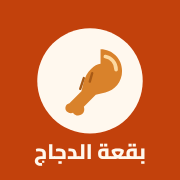
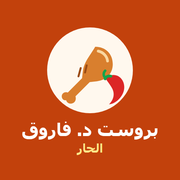
Rename shop to Dr Farooq Spicy Broast
Update the page title, app name, shop settings and icons with the new name.

diff --git a/index.html b/index.html
@@ -3,16 +3,16 @@
 <head>
 <meta charset="UTF-8">
 <meta name="viewport" content="width=device-width, initial-scale=1, viewport-fit=cover">
-<title>بقعة الدجاج | Chicken Spot</title>
+<title>بروست د. فاروق الحار | Dr Farooq Spicy Broast</title>
 <meta name="description" content="بروست طازج وساخن — اطلب عبر واتساب واستلم خلال دقائق">
 <meta name="theme-color" content="#C2410C">
 <link rel="manifest" href="manifest.webmanifest">
 <link rel="icon" type="image/png" href="icon-192.png">
 <link rel="apple-touch-icon" href="apple-touch-icon.png">
 <meta name="apple-mobile-web-app-capable" content="yes">
-<meta name="apple-mobile-web-app-title" content="بقعة الدجاج">
+<meta name="apple-mobile-web-app-title" content="بروست د. فاروق">
 <meta name="apple-mobile-web-app-status-bar-style" content="default">
-<meta property="og:title" content="بقعة الدجاج | Chicken Spot">
+<meta property="og:title" content="بروست د. فاروق الحار | Dr Farooq Spicy Broast">
 <meta property="og:description" content="اطلب بروستك عبر واتساب — ٤ قطع ٢٠ ر.س • ٨ قطع ٣٠ ر.س">
 <link rel="preconnect" href="https://fonts.googleapis.com">
 <link href="https://fonts.googleapis.com/css2?family=Cairo:wght@400;600;800&display=swap" rel="stylesheet">
@@ -176,8 +176,8 @@ footer{text-align:center;font-size:12px;color:#B39A88;padding:22px 0 10px}
 <script>
 /* ================= SHOP SETTINGS — change only this block for each new shop ================= */
 const SHOP = {
-  name_ar: "بقعة الدجاج",
-  name_en: "Chicken Spot",
+  name_ar: "بروست د. فاروق الحار",
+  name_en: "Dr Farooq Spicy Broast",
   whatsapp: "966500000000",                 // shop WhatsApp, international format, no + or spaces
   phone: "+966500000000",
   map: "https://maps.google.com/?q=Riyadh", // paste the shop's Google Maps share link

diff --git a/sw.js b/sw.js
@@ -1,4 +1,4 @@
-const CACHE='chickenspot-v1';
+const CACHE='chickenspot-v2';
 const FILES=['./','index.html','manifest.webmanifest','icon-192.png','icon-512.png'];
 self.addEventListener('install',e=>{e.waitUntil(caches.open(CACHE).then(c=>c.addAll(FILES)));self.skipWaiting()});
 self.addEventListener('activate',e=>{e.waitUntil(caches.keys().then(k=>Promise.all(k.filter(x=>x!==CACHE).map(x=>caches.delete(x)))));self.clients.claim()});

diff --git a/README.md b/README.md
@@ -1,4 +1,4 @@
-# بقعة الدجاج | Chicken Spot
+# بروست د. فاروق الحار | Dr Farooq Spicy Broast
 
 A one-page website for a broast chicken shop, which customers can also install as an app. Customers browse the menu, then send their order to the shop on WhatsApp. No server, database or monthly fees are needed: it runs free on GitHub Pages.
 
@@ -38,8 +38,8 @@ Open `index.html` and find the block marked **SHOP SETTINGS**. It's near the bot
 
 ```js
 const SHOP = {
-  name_ar: "بقعة الدجاج",
-  name_en: "Chicken Spot",
+  name_ar: "بروست د. فاروق الحار",
+  name_en: "Dr Farooq Spicy Broast",
   whatsapp: "966500000000",                 // shop WhatsApp, international format, no + or spaces
   phone: "+966500000000",
   map: "https://maps.google.com/?q=Riyadh", // paste the shop's Google Maps share link
